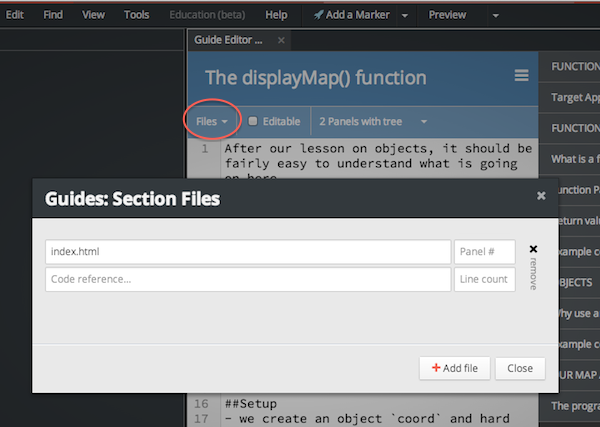
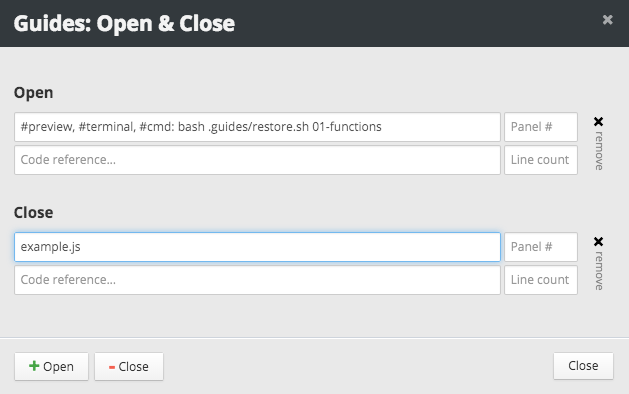
new file open/close file dialog guides

diff --git a/source/docs/guides/auto-open.html.md b/source/docs/guides/auto-open.html.md
@@ -1,43 +1,71 @@
 ---
-title: "Auto opening files"
+title: "Auto open/close files, preview, terminal"
 class_name: docs
 full_width: true
 ---
 
-If you want to automatically open up one or more files when the current section displays, you can define which files to open by clicking on the 'Files' button in the header area.
+You can automatically perform any of the following actions when a section is shown
+
+- Open or close files
+- Open or close a Preview
+- Open or close a Terminal window
+- Run a terminal command in the background
+
+##Open vs. Close
+Windows can be opened and closed automatically to present the tab configuration you feel is most appropriate for the reader.
 
 ![](/img/docs/guides/files.png)
 
-You are shown a dialog which allows you to specify
+The Files dialog allows you to open or close by pressing the respective button on the bottom left of the dialog.
 
-- which files you wish to open
-- which, if any, lines you want to highlight within that file
+##Opening
+You can open something by entering a file name and/or preview and terminal directives
 
-To add a file, click the 'Add file' button and a new entry will appear in the list.
-
-Specify the correct path to the file you want to open. This should have the following format (do *not* put a `/` at the start of the path). Here are two examples.
-
-
-```
-index.html
-js/main.js
+```bash
+example.js, index.html
 ```
 
-If your layout for this page involves multiple panels (which is a good idea), then you can also specify the panel number to display the file in.
+or
+
+```none
+example.js, #terminal, #preview
+```
+
+Any combinations are acceptable and they will be opened in the order specified.
+
+You can add multiple open or close lines into your configuration to address most scenarios you are likely to encounter.
+
+##Closing
+The principles for closing files in nearly the same as for opening but which a few noteworthy points
+
+- #tabs will close all opened tabs in all panels, except the Guide itself
+- #all closes all tabs in the specifed (or default if left empty) panel
+- specifying a file (files) but not a panel will close all occurrences of that file in all panels
+
+##Executing Terminal commands
+You can also specify a terminal command to run when a section is displayed. For example, your Guide might copy files into the root of your project from the .guides folder (which is hidden when a Guide is running) at a certain point in your Guide.
+
+```bash
+#cmd:cp ~/workspace/.guides/stages/example.js ~/workspace
+#cmd:bash .guides/a-script.sh
+```
+
+
+##Specifying a panel
+If your [layout](/docs/guides/layouts) for this page involves multiple panels, then you can also specify the panel number to display the file in.
+
+If you leave the panel field empty, then the default panel will be chosen, which is the same as 0.
 
 The panel order is left to right and then top to bottom and the last of all, the filetree (which you would rarely want to use).
 
 **Important** : the first panel is 0, not 1.
 
-So, if you have a 2 panel layout, you would usually leave the 'Panel#' field empty or set it to '0'.
 
-##Previous
-The top most and default entry in the Layout dropdown is 'Previous'. This means it will use the same panel layout as specified in the previous section to save you having to manually set it each time.
 
-##Highlighting Lines
+##Highlighting Lines in your code
 Coming very soon: To highlight one or more lines within an auto-opened file, you 
 
-1. enter a piece of reference text, contained within your file, into the 'Code reference ...' field
+1. enter a piece of reference text, contained within your target file, into the 'Code reference ...' field
 2. specify the number of lines, from that reference point, you want to highlight
 
 Using reference text rather than a line number means that if you insert anything into your file in the future, the line number would be invalidated, whereas the reference is much kess likely to be.

diff --git a/source/docs/guides/layouts.html.md b/source/docs/guides/layouts.html.md
@@ -11,3 +11,6 @@ This gives you great flexibility in the way you present Guides content and files
 The layouts we currently offer can be found in dropdown list and we will be adding more. If you would like a special panel arrangement, please email support@codio.com to discuss.
 
 Read the [Auto opening files](/docs/guides/auto-open) section for information on how to reference these panels when auto opening code files, a preview window or a terminal window.
+
+##Previous
+The top most and default entry in the Layout dropdown is 'Previous'. This means it will use the same panel layout as specified in the previous section to save you having to manually set it each time.

diff --git a/source/blog/articles/2014/09/admin-permissions.html.md b/source/blog/articles/2014/09/admin-permissions.html.md
@@ -16,3 +16,5 @@ We have now added a new 'Administrator' permission, which allows Project Owners 
 - access and run Deployments
 
 This new permission allows groups of people to deploy from a single codebase without having to set up more complex workflows.
+
+You can read about [Permissions in the docs](/docs/settings-prefs/permissions).
